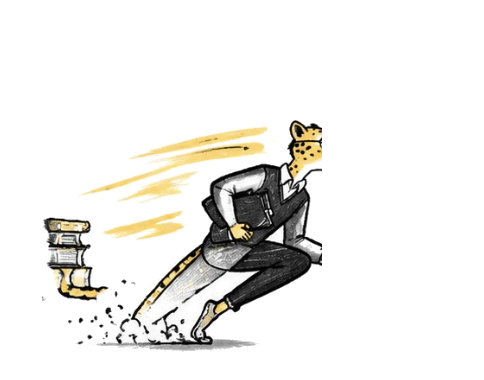
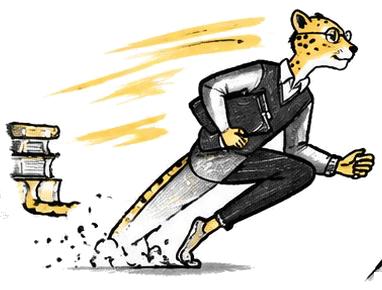
cheetaht: бегущий гепард с целой головой и ладонью (из коллажа #51), обтравлен, ?v=5

diff --git a/nonfiction/cheetaht/index.html b/nonfiction/cheetaht/index.html
@@ -209,7 +209,7 @@
 
     <div class="flow r" style="--i:13">
       
-      <figure class="ill"><img src="img/gepard-run.png?v=3" alt="Бегущий гепард" loading="lazy"></figure>
+      <figure class="ill"><img src="img/gepard-run.png?v=5" alt="Бегущий гепард" loading="lazy"></figure>
     </div>
 
     <section class="note r" style="--i:14">
